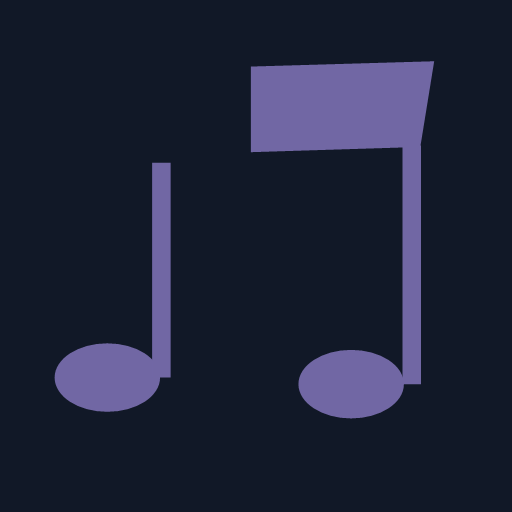
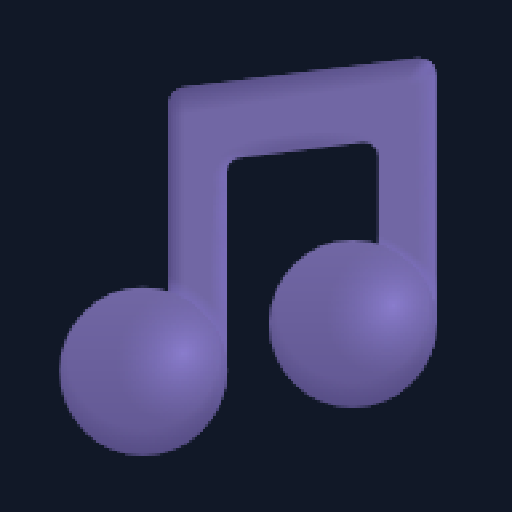
Updates

Changed region(s): [[0.125, 0.125, 0.875, 0.9062], [0.7188, 0.0938, 0.8438, 0.125], [0.0938, 0.6875, 0.125, 0.7812]]

diff --git a/index.html b/index.html
@@ -10,7 +10,7 @@
     <meta name="apple-mobile-web-app-title" content="K-Clip" />
     <link rel="apple-touch-icon" href="/K-Clip/icon-192.png" />
     <title>K-Clip</title>
-    <script type="module" crossorigin src="/K-Clip/assets/index-c4_kxoyT.js"></script>
+    <script type="module" crossorigin src="/K-Clip/assets/index-CqEIjcdE.js"></script>
     <link rel="stylesheet" crossorigin href="/K-Clip/assets/index-BULqr7Ge.css">
   <link rel="manifest" href="/K-Clip/manifest.webmanifest"><script id="vite-plugin-pwa:register-sw" src="/K-Clip/registerSW.js"></script></head>
   <body>

diff --git a/sw.js b/sw.js
@@ -1,1 +1,1 @@
-if(!self.define){let e,i={};const c=(c,n)=>(c=new URL(c+".js",n).href,i[c]||new Promise(i=>{if("document"in self){const e=document.createElement("script");e.src=c,e.onload=i,document.head.appendChild(e)}else e=c,importScripts(c),i()}).then(()=>{let e=i[c];if(!e)throw new Error(`Module ${c} didn’t register its module`);return e}));self.define=(n,s)=>{const r=e||("document"in self?document.currentScript.src:"")||location.href;if(i[r])return;let o={};const d=e=>c(e,r),t={module:{uri:r},exports:o,require:d};i[r]=Promise.all(n.map(e=>t[e]||d(e))).then(e=>(s(...e),o))}}define(["./workbox-66610c77"],function(e){"use strict";self.skipWaiting(),e.clientsClaim(),e.precacheAndRoute([{url:"registerSW.js",revision:"16b0e8dc7978341f78e8626b05d7543a"},{url:"index.html",revision:"6f9a80424358469c36b947b40dc617c6"},{url:"icon-512.png",revision:"3ffeaac98b374945c9646dcd5bcd17aa"},{url:"icon-192.png",revision:"c2f6a4b834554c931804131a74fbd03c"},{url:"favicon.svg",revision:"be030b5d11ae8ecf9ad98c869cc475fd"},{url:"assets/index-c4_kxoyT.js",revision:null},{url:"assets/index-BULqr7Ge.css",revision:null},{url:"favicon.svg",revision:"be030b5d11ae8ecf9ad98c869cc475fd"},{url:"icon-192.png",revision:"c2f6a4b834554c931804131a74fbd03c"},{url:"icon-512.png",revision:"3ffeaac98b374945c9646dcd5bcd17aa"},{url:"manifest.webmanifest",revision:"83d1c2babdad56cfd93c3b43db7fe39c"}],{}),e.cleanupOutdatedCaches(),e.registerRoute(new e.NavigationRoute(e.createHandlerBoundToURL("index.html"))),e.registerRoute(/\/audio\/.*\.mp3$/,new e.CacheFirst({cacheName:"kclip-audio",plugins:[new e.ExpirationPlugin({maxEntries:100})]}),"GET")});
+if(!self.define){let e,i={};const n=(n,c)=>(n=new URL(n+".js",c).href,i[n]||new Promise(i=>{if("document"in self){const e=document.createElement("script");e.src=n,e.onload=i,document.head.appendChild(e)}else e=n,importScripts(n),i()}).then(()=>{let e=i[n];if(!e)throw new Error(`Module ${n} didn’t register its module`);return e}));self.define=(c,s)=>{const r=e||("document"in self?document.currentScript.src:"")||location.href;if(i[r])return;let o={};const d=e=>n(e,r),f={module:{uri:r},exports:o,require:d};i[r]=Promise.all(c.map(e=>f[e]||d(e))).then(e=>(s(...e),o))}}define(["./workbox-66610c77"],function(e){"use strict";self.skipWaiting(),e.clientsClaim(),e.precacheAndRoute([{url:"registerSW.js",revision:"16b0e8dc7978341f78e8626b05d7543a"},{url:"index.html",revision:"7f96e898301a7be1bcf4d55190d374c8"},{url:"icon-512.png",revision:"99afce7c2a974ebdf36fe99d2f898f09"},{url:"icon-192.png",revision:"7d0e63489cc6f1a34f365728a2b6c0bc"},{url:"favicon.svg",revision:"be030b5d11ae8ecf9ad98c869cc475fd"},{url:"assets/index-CqEIjcdE.js",revision:null},{url:"assets/index-BULqr7Ge.css",revision:null},{url:"favicon.svg",revision:"be030b5d11ae8ecf9ad98c869cc475fd"},{url:"icon-192.png",revision:"7d0e63489cc6f1a34f365728a2b6c0bc"},{url:"icon-512.png",revision:"99afce7c2a974ebdf36fe99d2f898f09"},{url:"manifest.webmanifest",revision:"83d1c2babdad56cfd93c3b43db7fe39c"}],{}),e.cleanupOutdatedCaches(),e.registerRoute(new e.NavigationRoute(e.createHandlerBoundToURL("index.html"))),e.registerRoute(/\/audio\/.*\.mp3$/,new e.CacheFirst({cacheName:"kclip-audio",plugins:[new e.ExpirationPlugin({maxEntries:100})]}),"GET")});